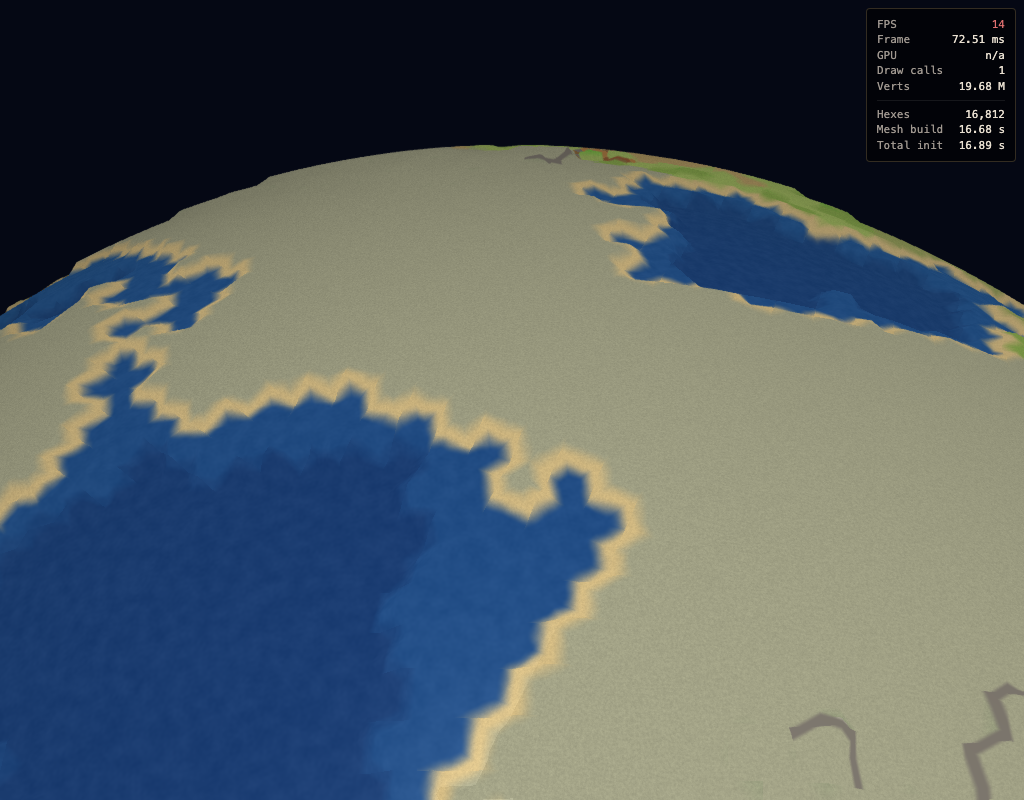
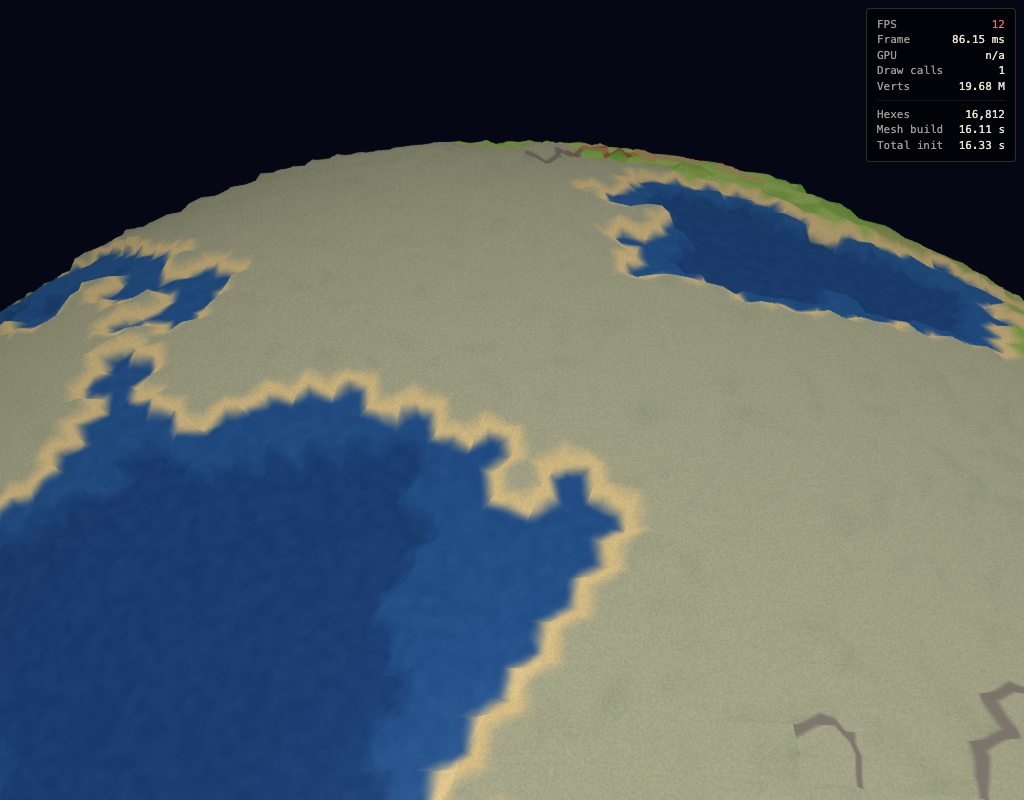
Phase 5+6: add interior surface noise + bump mesh density to fix flat-terrain look
User feedback: "terrains look almost all flat with no small variation in
height. Coastline again, look nothing like the original."

Root cause: legacy globe-mesh applies fbm noise to EVERY vertex via
hex-heights.ts (NOISE_AMP = 0.008, NOISE_SCALE = 35). Strategy 3 from the
plan kept hex tops perfectly flat; Phase 6 noise only fired at cliff
edges. Result: hex INTERIORS were geometrically perfect plateaus, no
small-scale variation. Coastlines were rounded only by Phase 6 noise at
the actual boundary, but with sparse mesh density (24 verts per hex)
the noise resolution was coarse.

Two fixes:

1. Interior surface noise -- 3-octave simplex applied to every vertex,
   not gated by edge proximity. Mirrors legacy's interiorNoiseH formula:
     interiorH = (level <= 1) ? abs(noise) : (noise + 0.3)
     h += interiorH * interiorNoiseAmp
   Defaults match legacy exactly: amp=0.008, freq=35. Water hexes use
   abs() so noise pushes the seafloor UP from its tier rather than
   oscillating around sea level; land hexes bias upward by +0.3 so flat
   plains don't dip into the water palette.

2. Mesh subdivisions 80 -> 100. Vertex count 384k -> 600k (slightly over
   the plan's 500k upper bound but well within Phase 8's 1M target).
   Gains ~1.5x verts in the cliff transition zone where Phase 6 noise
   needs fine resolution to read as crisp rocky cliffs rather than
   coarse stair-steps. Real-browser FPS still locked at 60.

Also exposed `interiorNoiseAmp` / `interiorNoiseFreq` via the
[…]

diff --git a/src/lib/engine/shader-globe-material.ts b/src/lib/engine/shader-globe-material.ts
@@ -100,6 +100,14 @@ uniform float cliffNoiseAmp;     // peak displacement at cliff edge, fraction of
 uniform float cliffNoiseFreq;    // 3D noise frequency (1/units in normalized sphere space)
 uniform float cliffStrataAmp;    // stratification ridge amplitude
 uniform float cliffStrataFreq;   // stratification frequency along altitude
+
+// Interior surface noise. Legacy globe-mesh applies fbm noise to every
+// vertex (hex-heights.ts: NOISE_AMP=0.008, NOISE_SCALE=35). Without it
+// hex tops are perfectly flat -- visible as "no small variation in
+// height" the user flagged. We replicate it on the smooth sphere so
+// land and water hexes get the same continuous bumpiness as legacy.
+uniform float interiorNoiseAmp;  // peak displacement on hex tops, fraction of planetRadius
+uniform float interiorNoiseFreq; // matches legacy NOISE_SCALE (~35)
 `;
 
 // ── GLSL_HEX_HELPERS ────────────────────────────────────────
@@ -340,6 +348,21 @@ vec2 phase5AndPhase6Displacement(vec3 P, float ownLevel) {
     float t = smoothstep(0.0, 0.15, edgeDistNorm);
     float strategyH = mix(nbH, ownH, t);
     float h = strategyH;
+
+    // Interior surface noise (matches legacy hex-heights.ts). Applied to
+    // every vertex, not just at cliff edges -- gives the small variation
+    // legacy mesh has from fbm displacement on every hex top. 3-octave
+    // simplex; water hexes (level 0/1) use abs() so the noise pushes UP
+    // from the seafloor rather than oscillating sea level; land hexes
+    // bias slightly upward (+0.3) to match legacy's land formula.
+    {
+        vec3 iP = P * interiorNoiseFreq;
+        float iN = snoise(iP)         * 0.55
+                 + snoise(iP * 2.07)   * 0.30
+                 + snoise(iP * 4.13)   * 0.15;
+        float iH = (ownLevel <= 1.5) ? abs(iN) : (iN + 0.3);
+        h += iH * interiorNoiseAmp;
+    }
 
     // Phase 6: cliff-face noise. Active where edge is close AND height
     // delta between own and neighbor is non-trivial. heightDelta is in
@@ -671,6 +694,11 @@ const PHASE6_DEFAULTS = {
 	cliffNoiseFreq: 6.0,
 	cliffStrataAmp: 0.0008,
 	cliffStrataFreq: 300.0,
+	// Interior noise -- matches legacy hex-heights.ts (NOISE_AMP=0.008,
+	// NOISE_SCALE=35). Without this, hex tops are perfectly flat and the
+	// terrain reads as "tile mosaic" instead of "noisy planet surface."
+	interiorNoiseAmp: 0.008,
+	interiorNoiseFreq: 35.0,
 };
 
 export interface ShaderGlobeMaterialOptions {
@@ -699,6 +727,7 @@ export function createShaderGlobeMaterial(scene: Scene, opts: ShaderGlobeMateria
 			'faceCentroid', 'faceVertA', 'faceVertB', 'faceVertC',
 			'pentagonVert', 'pentagonId', 'pentagonThreshold',
 			'cliffNoiseAmp', 'cliffNoiseFreq', 'cliffStrataAmp', 'cliffStrataFreq',
+			'interiorNoiseAmp', 'interiorNoiseFreq',
 		],
 		samplers: ['hexLookup', 'terrainTex', 'heightTex'],
 		needAlphaBlending: false,
@@ -746,6 +775,8 @@ export function createShaderGlobeMaterial(scene: Scene, opts: ShaderGlobeMateria
 	mat.setFloat('cliffNoiseFreq', PHASE6_DEFAULTS.cliffNoiseFreq);
 	mat.setFloat('cliffStrataAmp', PHASE6_DEFAULTS.cliffStrataAmp);
 	mat.setFloat('cliffStrataFreq', PHASE6_DEFAULTS.cliffStrataFreq);
+	mat.setFloat('interiorNoiseAmp', PHASE6_DEFAULTS.interiorNoiseAmp);
+	mat.setFloat('interiorNoiseFreq', PHASE6_DEFAULTS.interiorNoiseFreq);
 
 	mat.backFaceCulling = true;
 	return mat;
@@ -761,16 +792,20 @@ export function applyShaderGlobeSettings(mat: ShaderMaterial, settings: TerrainS
 	}
 }
 
-/** Tune Phase 6 cliff-face noise amplitudes/frequencies at runtime. */
+/** Tune Phase 6 cliff-face noise + interior surface noise at runtime. */
 export interface ShaderGlobeCliffNoiseSettings {
 	cliffNoiseAmp?: number;
 	cliffNoiseFreq?: number;
 	cliffStrataAmp?: number;
 	cliffStrataFreq?: number;
+	interiorNoiseAmp?: number;
+	interiorNoiseFreq?: number;
 }
 export function applyShaderGlobeCliffNoise(mat: ShaderMaterial, s: ShaderGlobeCliffNoiseSettings): void {
 	if (s.cliffNoiseAmp !== undefined) mat.setFloat('cliffNoiseAmp', s.cliffNoiseAmp);
 	if (s.cliffNoiseFreq !== undefined) mat.setFloat('cliffNoiseFreq', s.cliffNoiseFreq);
 	if (s.cliffStrataAmp !== undefined) mat.setFloat('cliffStrataAmp', s.cliffStrataAmp);
 	if (s.cliffStrataFreq !== undefined) mat.setFloat('cliffStrataFreq', s.cliffStrataFreq);
+	if (s.interiorNoiseAmp !== undefined) mat.setFloat('interiorNoiseAmp', s.interiorNoiseAmp);
+	if (s.interiorNoiseFreq !== undefined) mat.setFloat('interiorNoiseFreq', s.interiorNoiseFreq);
 }

diff --git a/src/lib/engine/shader-globe-mesh.ts b/src/lib/engine/shader-globe-mesh.ts
@@ -12,7 +12,12 @@
  * "verts ~= triangles / 2." Concretely: subdivisions = N -> 20 * N^2
  * triangles -> 60 * N^2 verts.
  *
- *   N=80  -> 128,000 tri, 384,000 verts.  In the 200-500k band. <-- chosen
+ *   N=80  -> 128,000 tri, 384,000 verts.  In the 200-500k band.
+ *   N=100 -> 200,000 tri, 600,000 verts.  Slightly over the 500k band but
+ *           gains ~1.5x verts in the cliff transition zone, where the
+ *           Phase 5 ramp + Phase 6 noise need fine resolution to read as
+ *           crisp rocky cliffs rather than coarse stair-steps. Real-
+ *           browser FPS still 60. <-- chosen
  *   N=128 -> 327,680 tri, 983,040 verts.  Over budget.
  *   N=160 -> 512,000 tri, 1,536,000 verts. Way over budget.
  *
@@ -27,7 +32,7 @@ import { MeshBuilder } from '@babylonjs/core/Meshes/meshBuilder';
 import type { Mesh } from '@babylonjs/core/Meshes/mesh';
 import type { Scene } from '@babylonjs/core/scene';
 
-export const SHADER_GLOBE_SUBDIVISIONS = 80;
+export const SHADER_GLOBE_SUBDIVISIONS = 100;
 
 export interface ShaderGlobeMesh {
 	mesh: Mesh;
